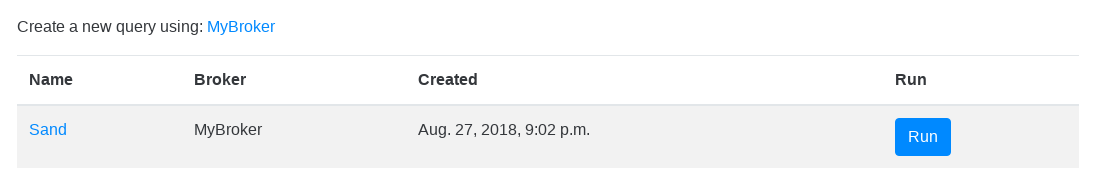
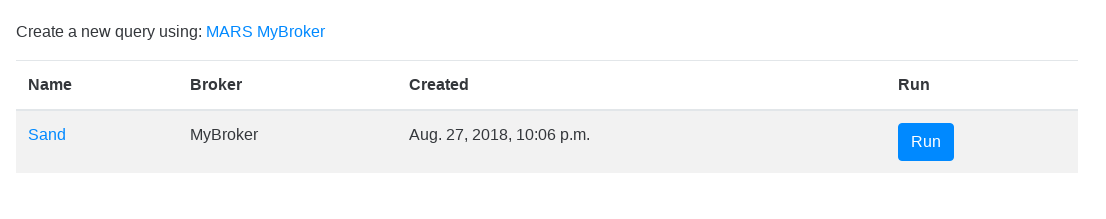
Minor doc changes. Change screenshots to be consistent with doc changes.

diff --git a/docs/create_broker.md b/docs/create_broker.md
@@ -66,15 +66,12 @@ See [Requests Official API Docs](http://docs.python-requests.org/en/master/)
 
 ## Test Data
 
-In order to test that our broker can retrieve and process some
-remote data, we've created a set sample alerts [here](https://gist.githubusercontent.com/mgdaily/f5dfb4047aaeb393bf1996f0823e1064/raw/5e6a6142ff77e7eb783892f1d1d01b13489032cc/example_broker_data.json).
+In place of a remote broker, we've uploaded a [sample JSON file to GitHub Gist](https://gist.githubusercontent.com/mgdaily/f5dfb4047aaeb393bf1996f0823e1064/raw/5e6a6142ff77e7eb783892f1d1d01b13489032cc/example_broker_data.json).
 
 For our broker to use this data, we will set `broker_url` to it.
-
 ```
 broker_url = https://gist.githubusercontent.com/mgdaily/f5dfb4047aaeb393bf1996f0823e1064/raw/5e6a6142ff77e7eb783892f1d1d01b13489032cc/example_broker_data.json
 ```
-__Can we do this in a cleaner fashion?__
 
 ## Broker Forms
 To define the query forms for our custom broker, we'll begin by creating class
@@ -132,9 +129,9 @@ request was successful, and return a list of all alerts whose name field matches
 name passed into the query.
 
 #### `fetch_alert` Class Method
-`fetch_alert` is similar to `fetch_alerts`, but is used in converting a TOM Alert
-into a TOM Target. Once a query has been performed, any resulting alert may be
-made into a TOM target directly from the query results page.
+`fetch_alert` is similar to `fetch_alerts`, but fetches a single alert with a given
+`alert_id`. Once a query has been performed, any resulting alert may be made into
+a TOM target directly from the query results page.
 
 ```python
 @classmethod
@@ -208,6 +205,7 @@ broker classes, so we'll need to add `MyBroker` to that list.
 ```python
 TOM_ALERT_CLASSES = [
     ...
+    'tom_alerts.brokers.mars.MARSBroker',
     'mytom.my_broker.MyBroker',
     ...
 ]
@@ -224,7 +222,7 @@ where `manage.py` resides and run
 Navigate to [http://127.0.0.1:8000/alerts/query/list/](http://127.0.0.1:8000/alerts/query/list/)
 
 You should now see 'MyBroker' listed as a broker! Clicking the link will bring you
-to the query page, where you can make a query to a remote broker.
+to the query page, where you can make a query to our sample dataset.
 
 ![successful-broker-list]({{"/assets/img/create_broker_doc/success_broker_list.png" | absolute_url}})
 
